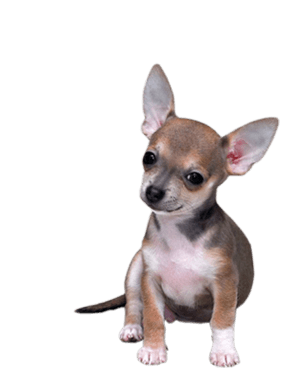
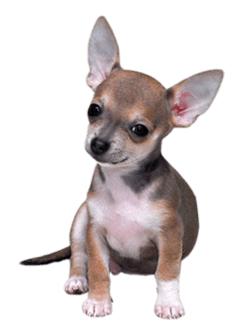
colors

diff --git a/src/components/Jumbotron/Jumbotron.js b/src/components/Jumbotron/Jumbotron.js
@@ -1,5 +1,5 @@
 import React from "react";
-import BackgroundImg from "../../img/BackgroundImg.png";
+import BackgroundImg from "../../img/BackgroundImg.gif";
 import './Jumbotron.css'
 
 const JumbotronBackground = { 

diff --git a/src/components/Footer/Footer.css b/src/components/Footer/Footer.css
@@ -1,5 +1,5 @@
 .bg-info {
-    background-color: rgb(209, 94, 90) !important;
+    background-color: #B8E1F3 !important;
     padding: 10px 0;
     text-align: center;
     color: white;

diff --git a/src/components/Jumbotron/Jumbotron.css b/src/components/Jumbotron/Jumbotron.css
@@ -1,5 +1,5 @@
 .jumbotron {
-    color: white;
+    color: rgb(6, 178, 252);
     font-weight: bold;
     font-family: sans-serif;
     background-position: center; 

diff --git a/src/components/Nav/Nav.css b/src/components/Nav/Nav.css
@@ -1,5 +1,5 @@
 .nav {
-    background-color: rgb(209, 94, 90) !important;
+    background-color: #B8E1F3 !important;
     padding: 5px 0;
     text-align: center
 }

diff --git a/src/components/Card/Card.css b/src/components/Card/Card.css
@@ -8,3 +8,4 @@
   height: 180px;
   margin-bottom: 20px;
 }
+
